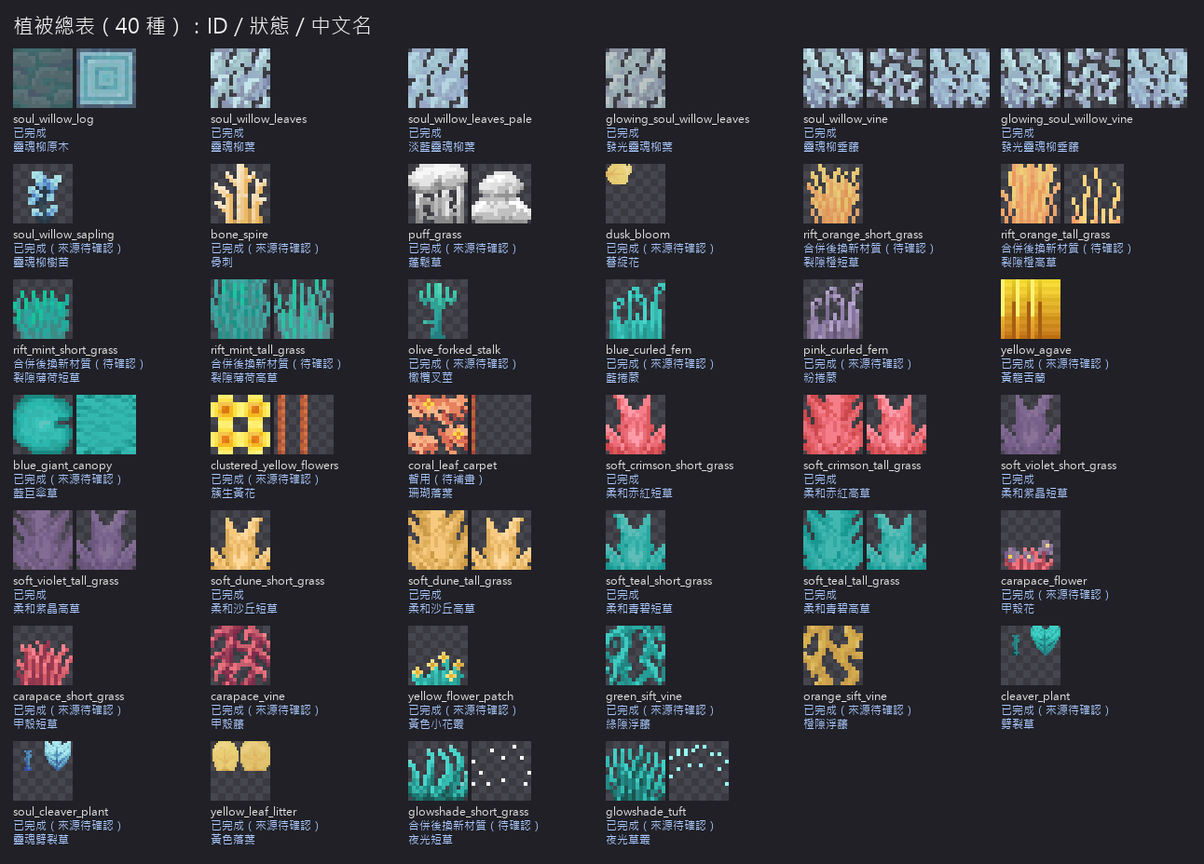
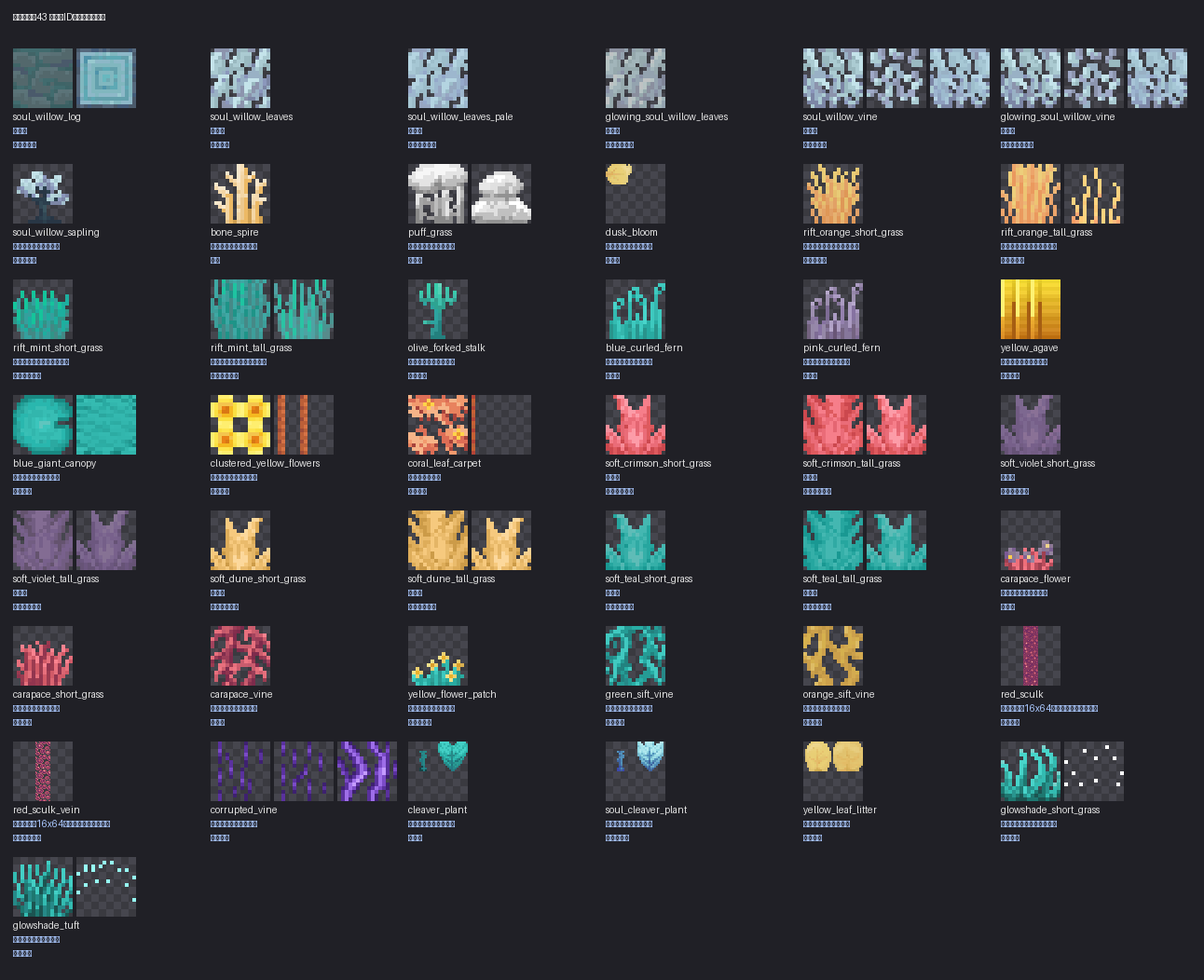
feat(textures): redrawn cave stones, hanging vine textures, AI texture records
- subagent redraw (minecraft-texture-crafter): gray_strata, varied_dark_slate,
  polished_void_stone, violet_strata h/i matched to e; originals backed up in
  .texture_backups/20261113-171000_cave_layer_redraw/
- hanging vine body / tip textures from the user's three wall vines
- AI_CATALOG lists the new and the pointed-stone textures; art_guard records them

Claude-Session: https://claude.ai/code/session_01Bwq5yEBLjACGLHohmmurKz

diff --git a/tools/build_art_requests.py b/tools/build_art_requests.py
@@ -37,6 +37,7 @@ IMPORTED_NEW = {"carapace_flower", "carapace_short_grass", "carapace_vine", "whi
 # 全專案 AI／腳本產生的貼圖：(textures/ 底下的 glob, 用途, 產生腳本, 類別)
 # 類別：AI = 腳本從零畫的；轉出 = 由使用者的圖或原版貼圖重新上色／裁切；待確認 = 腳本畫過，但可能已被換成使用者的圖
 AI_CATALOG = [
+    ("block/pointed/pointed_*.png", "尖石（四種洞穴的滴水石，v2.1.0）", "subagent（minecraft-texture-crafter）", "AI"),
     ("block/vegetation/humus_fern.png", "腐殖蕨 葉片", "tools/models/gen_blade_models.py", "AI"),
     ("block/vegetation/humus_bush.png", "腐殖灌木 葉片", "tools/models/gen_blade_models.py", "AI"),
     ("block/vegetation/bone_spire.png", "骨刺", "tools/worldgen/make_decor_textures.py", "AI"),
@@ -63,6 +64,11 @@ AI_CATALOG = [
     ("entity/hunter.png", "Hunter（可能已換成使用者的合併貼圖）", "tools/entity/build_sift_creatures.py", "待確認"),
     ("entity/trapper.png", "Trapper（可能已換成使用者的合併貼圖）", "tools/entity/build_sift_creatures.py", "待確認"),
     ("entity/sculk_cube.png", "幽匿方塊", "tools/entity/build_sift_creatures.py", "待確認"),
+    ("block/gray_strata/gray_strata_*.png", "灰地層 4 色調（洞穴層重畫）", "Claude Code 一次性腳本（未放進 repo）", "AI"),
+    ("block/varied_dark_slate/dark_slate_[dghj].png", "雜色暗板岩（洞穴層重畫；dark_slate_i 是使用者的）", "Claude Code 一次性腳本（未放進 repo）", "AI"),
+    ("block/violet_strata/violet_strata_[hi].png", "紫地層變體（依 violet_strata_e 統一；e 是共用的未改）", "Claude Code 一次性腳本（未放進 repo）", "AI"),
+    ("block/void_stone/polished_void_stone.png", "磨製虛黑岩（洞穴層重畫）", "Claude Code 一次性腳本（未放進 repo）", "AI"),
+    ("block/vegetation/hanging_vines/*.png", "垂掛藤蔓 3 種（本體＋尖端，依使用者的牆藤重畫）", "Claude Code 一次性腳本（未放進 repo）", "轉出"),
 ]
 RIFT_FLORA_TEX = {"blue_curled_fern", "pink_curled_fern", "white_curled_fern", "olive_forked_stalk", "rift_yellow_short_grass",
                   "canopy_leaf_blue", "canopy_leaf_green", "canopy_leaf_white", "canopy_stem_blue", "canopy_stem_green",

diff --git a/art_requests/vegetation_todo.md b/art_requests/vegetation_todo.md
@@ -5,7 +5,7 @@
 **怎麼替換**：畫好後用同樣的檔名覆蓋 `src/main/resources/assets/pysift/textures/` 底下的檔案即可，路徑以下都省略這段。
 產生這些圖的腳本已加上臨時圖保護（`tools/art_guard.py`），只要檔案和腳本上次畫的不同，重跑就不會蓋掉你的圖。
 
-## A. 植被總表（40 種）
+## A. 植被總表（43 種）
 
 總覽圖：`art_requests/vegetation_todo_overview.png`（每格最多 3 張貼圖，第二行是狀態）。
 
@@ -24,7 +24,7 @@
 | 7 | `soul_willow_sapling` | 靈魂柳樹苗 | `block/vegetation/soul_willow_sapling/soul_willow_sapling` | 十字（自訂元素） | `block/vegetation/soul_willow_sapling/soul_willow_sapling` 16x16 | `block/vegetation/soul_willow_sapling/soul_willow_sapling` 16x16 | 待確認 | 已完成（來源待確認） |  |
 | 8 | `bone_spire` | 骨刺 | `block/vegetation/bone_spire/bone_spire`<br>`block/vegetation/bone_spire/bone_spire_s80`<br>`block/vegetation/bone_spire/bone_spire_s120` | 十字（自訂元素） | `block/vegetation/bone_spire/bone_spire` 16x16 | `block/vegetation/bone_spire/bone_spire` 16x16 | 待確認 | 已完成（來源待確認） |  |
 | 9 | `puff_grass` | 蓬鬆草 | `block/vegetation/puff_grass/puff_grass_bottom`<br>`block/vegetation/puff_grass/puff_grass_top` | 兩格高（上／下半）・十字（自訂元素） | `block/vegetation/puff_grass/puff_grass_bottom` 16x16<br>`block/vegetation/puff_grass/puff_grass_top` 16x16 | `block/vegetation/puff_grass/puff_grass_top` 16x16 | 待確認 | 已完成（來源待確認） |  |
-| 10 | `dusk_bloom` | 暮綻花 | `block/vegetation/dusk_bloom/dusk_bloom` | 3D 模型（Blockbench／腳本） | `block/vegetation/dusk_bloom/dusk_bloom` 32x32 | `item/dusk_bloom` 21x21 | 使用者的 Blockbench 模型（待確認） | 已完成（來源待確認） |  |
+| 10 | `dusk_bloom` | 暮綻花 | `block/vegetation/dusk_bloom/dusk_bloom` | 3D 模型（Blockbench／腳本） | `block/vegetation/dusk_bloom/dusk_bloom` 32x32 | `item/dusk_bloom` 16x16 | 使用者的 Blockbench 模型（待確認） | 已完成（來源待確認） |  |
 | 11 | `rift_orange_short_grass` | 裂隙橙短草 | `block/vegetation/rift_orange_short_grass/rift_orange_short_grass` | 原版十字 | `block/vegetation/rift_orange_short_grass/sift_orange_short_grass` 16x16 | `block/vegetation/rift_orange_short_grass/sift_orange_short_grass` 16x16 | 待確認 | 合併後換新材質（待確認） | 原 orange_rift_grass，併入 sift_orange_short_grass 的新材質 |
 | 12 | `rift_orange_tall_grass` | 裂隙橙高草 | `block/vegetation/rift_orange_tall_grass/rift_orange_tall_grass_bottom`<br>`block/vegetation/rift_orange_tall_grass/rift_orange_tall_grass` | 兩格高（上／下半）・原版十字 | `block/vegetation/rift_orange_tall_grass/sift_orange_tall_grass_down` 16x16<br>`block/vegetation/rift_orange_tall_grass/sift_orange_tall_grass_top` 16x16 | `block/vegetation/rift_orange_tall_grass/sift_orange_tall_grass_top` 16x16 | 待確認 | 合併後換新材質（待確認） | 原 orange_tall_rift_grass，併入 sift_orange_tall_grass 的新材質 |
 | 13 | `rift_mint_short_grass` | 裂隙薄荷短草 | `block/vegetation/rift_mint_short_grass/rift_mint_short_grass` | 原版十字 | `block/vegetation/rift_mint_short_grass/sift_short_grass` 16x16 | `block/vegetation/rift_mint_short_grass/sift_short_grass` 16x16 | 待確認 | 合併後換新材質（待確認） | 原 mint_rift_grass，併入 sift_short_grass 的新材質 |
@@ -50,114 +50,172 @@
 | 33 | `yellow_flower_patch` | 黃色小花叢 | `block/vegetation/yellow_flower_patch/yellow_flower_patch` | 原版十字 | `block/vegetation/yellow_flower_patch/yellow_flower_patch` 16x16 | `block/vegetation/yellow_flower_patch/yellow_flower_patch` 16x16 | 待確認 | 已完成（來源待確認） | 新匯入 |
 | 34 | `green_sift_vine` | 綠隙浮藤 | `block/vegetation/green_sift_vine/green_sift_vine` | 藤（貼牆面） | `block/vegetation/green_sift_vine/green_sift_vine` 16x16 | `item/green_sift_vine` 16x16 | 待確認<br>匯入素材 sift_vegetation_assets（待確認） | 已完成（來源待確認） | 新匯入 |
 | 35 | `orange_sift_vine` | 橙隙浮藤 | `block/vegetation/orange_sift_vine/orange_sift_vine` | 藤（貼牆面） | `block/vegetation/orange_sift_vine/orange_sift_vine` 16x16 | `item/orange_sift_vine` 16x16 | 待確認<br>匯入素材 sift_vegetation_assets（待確認） | 已完成（來源待確認） | 新匯入 |
-| 36 | `cleaver_plant` | 劈裂草 | `block/vegetation/cleaver_plant/cleaver_plant` | 3D 模型（Blockbench／腳本） | `block/vegetation/cleaver_plant/cleaver_plant` 32x32 | `item/cleaver_plant` 16x16 | 待確認<br>匯入素材 sift_vegetation_assets（待確認） | 已完成（來源待確認） | 新匯入 |
-| 37 | `soul_cleaver_plant` | 靈魂劈裂草 | `block/vegetation/soul_cleaver_plant/soul_cleaver_plant` | 3D 模型（Blockbench／腳本） | `block/vegetation/soul_cleaver_plant/soul_cleaver_plant` 32x32 | `item/soul_cleaver_plant` 16x16 | 待確認<br>匯入素材 sift_vegetation_assets（待確認） | 已完成（來源待確認） | 新匯入 |
-| 38 | `yellow_leaf_litter` | 黃色落葉 | `block/vegetation/yellow_leaf_litter/yellow_leaf_litter` | 3D 模型（Blockbench／腳本） | `block/vegetation/yellow_leaf_litter/yellow_leaf_litter` 32x32 | `item/yellow_leaf_litter` 32x32 | 待確認<br>匯入素材 sift_vegetation_assets（待確認） | 已完成（來源待確認） | 新匯入 |
-| 39 | `glowshade_short_grass` | 夜光短草 | `block/vegetation/glowshade_short_grass/glowshade_short_grass` | 十字＋發光層 | `block/vegetation/glowshade_short_grass/sculk_grass` 16x16<br>`block/vegetation/glowshade_short_grass/glowshade_short_grass_glow` 16x16 | `block/vegetation/glowshade_short_grass/sculk_grass` 16x16 | 待確認 | 合併後換新材質（待確認） | 原 glowshade_grass，草葉改用 sculk_grass（幽匿草）貼圖，發光層重新對齊 |
-| 40 | `glowshade_tuft` | 夜光草叢 | `block/vegetation/glowshade_tuft/glowshade_tuft` | 十字＋發光層 | `block/vegetation/glowshade_tuft/glowshade_tuft` 16x16<br>`block/vegetation/glowshade_tuft/glowshade_tuft_glow` 16x16 | `block/vegetation/glowshade_tuft/glowshade_tuft` 16x16 | 待確認 | 已完成（來源待確認） |  |
+| 36 | `red_sculk` | 赤紅幽匿 | `block/red_sculk/red_sculk` | 方塊（cube_all） | `block/red_sculk/red_sculk` 16x64 | （用方塊模型） | 待確認 | 尺寸異常（16x64，十字模型會被拉伸） |  |
+| 37 | `red_sculk_vein` | 赤紅幽匿脈絡 | `block/red_sculk_vein/red_sculk_vein` | 3D 模型（Blockbench／腳本） | `block/red_sculk_vein/red_sculk_vein` 16x64 | `block/red_sculk_vein/red_sculk_vein` 16x64 | 待確認 | 尺寸異常（16x64，十字模型會被拉伸） |  |
+| 38 | `corrupted_vine` | 腐化藤蔓 | `block/corrupted_vine/corrupted_vine_corruption0_a`<br>`block/corrupted_vine/corrupted_vine_corruption0_b`<br>`block/corrupted_vine/corrupted_vine_corruption1`<br>`block/corrupted_vine/corrupted_vine_corruption2_a`<br>`block/corrupted_vine/corrupted_vine_corruption2_b`<br>`block/corrupted_vine/corrupted_vine_corruption2_c`<br>`block/corrupted_vine/corrupted_vine_corruption2_d`<br>`block/corrupted_vine/corrupted_vine_corruption2_e`<br>`block/corrupted_vine/corrupted_vine_corruption3_a`<br>`block/corrupted_vine/corrupted_vine_corruption3_b`<br>`block/corrupted_vine/corrupted_vine_corruption3_c` | 藤（貼牆面） | `block/corrupted_vine/corrupted_vine_corruption0_a` 16x16<br>`block/corrupted_vine/corrupted_vine_corruption0_b` 16x16<br>`block/corrupted_vine/corrupted_vine_corruption1` 16x16<br>`block/corrupted_vine/corrupted_vine_corruption2_a` 16x16<br>`block/corrupted_vine/corrupted_vine_corruption2_b` 16x16<br>`block/corrupted_vine/corrupted_vine_corruption2_c` 16x16<br>`block/corrupted_vine/corrupted_vine_corruption2_d` 16x16<br>`block/corrupted_vine/corrupted_vine_corruption2_e` 16x16<br>`block/corrupted_vine/corrupted_vine_corruption3_a` 16x16<br>`block/corrupted_vine/corrupted_vine_corruption3_b` 16x16<br>`block/corrupted_vine/corrupted_vine_corruption3_c` 16x16 | `block/corrupted_vine/corrupted_vine_corruption2_a` 16x16 | 待確認 | 已完成（來源待確認） |  |
+| 39 | `cleaver_plant` | 劈裂草 | `block/vegetation/cleaver_plant/cleaver_plant` | 3D 模型（Blockbench／腳本） | `block/vegetation/cleaver_plant/cleaver_plant` 32x32 | `item/cleaver_plant` 16x16 | 待確認<br>匯入素材 sift_vegetation_assets（待確認） | 已完成（來源待確認） | 新匯入 |
+| 40 | `soul_cleaver_plant` | 靈魂劈裂草 | `block/vegetation/soul_cleaver_plant/soul_cleaver_plant` | 3D 模型（Blockbench／腳本） | `block/vegetation/soul_cleaver_plant/soul_cleaver_plant` 32x32 | `item/soul_cleaver_plant` 16x16 | 待確認<br>匯入素材 sift_vegetation_assets（待確認） | 已完成（來源待確認） | 新匯入 |
+| 41 | `yellow_leaf_litter` | 黃色落葉 | `block/vegetation/yellow_leaf_litter/yellow_leaf_litter` | 3D 模型（Blockbench／腳本） | `block/vegetation/yellow_leaf_litter/yellow_leaf_litter` 32x32 | `item/yellow_leaf_litter` 16x16 | 待確認<br>匯入素材 sift_vegetation_assets（待確認） | 已完成（來源待確認） | 新匯入 |
+| 42 | `glowshade_short_grass` | 夜光短草 | `block/vegetation/glowshade_short_grass/glowshade_short_grass` | 十字＋發光層 | `block/vegetation/glowshade_short_grass/sculk_grass` 16x16<br>`block/vegetation/glowshade_short_grass/glowshade_short_grass_glow` 16x16 | `block/vegetation/glowshade_short_grass/sculk_grass` 16x16 | 待確認 | 合併後換新材質（待確認） | 原 glowshade_grass，草葉改用 sculk_grass（幽匿草）貼圖，發光層重新對齊 |
+| 43 | `glowshade_tuft` | 夜光草叢 | `block/vegetation/glowshade_tuft/glowshade_tuft` | 十字＋發光層 | `block/vegetation/glowshade_tuft/glowshade_tuft` 16x16<br>`block/vegetation/glowshade_tuft/glowshade_tuft_glow` 16x16 | `block/vegetation/glowshade_tuft/glowshade_tuft` 16x16 | 待確認 | 已完成（來源待確認） |  |
 
-## B. AI 產生與待確認的貼圖（99 張，全專案）
+## B. AI 產生與待確認的貼圖（154 張，全專案）
 
 總覽圖：`art_requests/ai_textures_overview.png`。類別：**AI** = 腳本從零畫的；**轉出** = 由你的圖或原版貼圖重新上色／裁切，可以沿用也可以重畫；**待確認** = 腳本畫過但可能已換成你的圖，或是匯入素材、來源不明的圖：是你畫的就保留，不是就重畫。
 
 | # | 檔案 | 用途 | 尺寸 | 產生腳本／來源 | 類別 |
 | :-- | :-- | :-- | :-- | :-- | :-- |
-| 1 | `item/coral_leaf_carpet.png` | 珊瑚落葉 物品圖示 | 16x16 | `tools/models/gen_batch3.py` | AI |
-| 2 | `item/bloombud_spawn_egg.png` | 生怪蛋（臉取自生物貼圖） | 16x16 | `tools/items/make_spawn_eggs.py、tools/models/hunter_trapper_assets.py` | AI |
-| 3 | `item/blub_spawn_egg.png` | 生怪蛋（臉取自生物貼圖） | 16x16 | `tools/items/make_spawn_eggs.py、tools/models/hunter_trapper_assets.py` | AI |
-| 4 | `item/dartback_spawn_egg.png` | 生怪蛋（臉取自生物貼圖） | 16x16 | `tools/items/make_spawn_eggs.py、tools/models/hunter_trapper_assets.py` | AI |
-| 5 | `item/echo_golem_spawn_egg.png` | 生怪蛋（臉取自生物貼圖） | 16x16 | `tools/items/make_spawn_eggs.py、tools/models/hunter_trapper_assets.py` | AI |
-| 6 | `item/fusefly_spawn_egg.png` | 生怪蛋（臉取自生物貼圖） | 16x16 | `tools/items/make_spawn_eggs.py、tools/models/hunter_trapper_assets.py` | AI |
-| 7 | `item/harmonizer_spawn_egg.png` | 生怪蛋（臉取自生物貼圖） | 16x16 | `tools/items/make_spawn_eggs.py、tools/models/hunter_trapper_assets.py` | AI |
-| 8 | `item/hunter_spawn_egg.png` | 生怪蛋（臉取自生物貼圖） | 16x16 | `tools/items/make_spawn_eggs.py、tools/models/hunter_trapper_assets.py` | AI |
-| 9 | `item/hurler_spawn_egg.png` | 生怪蛋（臉取自生物貼圖） | 16x16 | `tools/items/make_spawn_eggs.py、tools/models/hunter_trapper_assets.py` | AI |
-| 10 | `item/lootkin_spawn_egg.png` | 生怪蛋（臉取自生物貼圖） | 16x16 | `tools/items/make_spawn_eggs.py、tools/models/hunter_trapper_assets.py` | AI |
-| 11 | `item/monarch_spawn_egg.png` | 生怪蛋（臉取自生物貼圖） | 16x16 | `tools/items/make_spawn_eggs.py、tools/models/hunter_trapper_assets.py` | AI |
-| 12 | `item/nester_spawn_egg.png` | 生怪蛋（臉取自生物貼圖） | 16x16 | `tools/items/make_spawn_eggs.py、tools/models/hunter_trapper_assets.py` | AI |
-| 13 | `item/nuzzle_spawn_egg.png` | 生怪蛋（臉取自生物貼圖） | 16x16 | `tools/items/make_spawn_eggs.py、tools/models/hunter_trapper_assets.py` | AI |
-| 14 | `item/pollinator_spawn_egg.png` | 生怪蛋（臉取自生物貼圖） | 16x16 | `tools/items/make_spawn_eggs.py、tools/models/hunter_trapper_assets.py` | AI |
-| 15 | `item/prickle_spawn_egg.png` | 生怪蛋（臉取自生物貼圖） | 16x16 | `tools/items/make_spawn_eggs.py、tools/models/hunter_trapper_assets.py` | AI |
-| 16 | `item/roamroot_spawn_egg.png` | 生怪蛋（臉取自生物貼圖） | 16x16 | `tools/items/make_spawn_eggs.py、tools/models/hunter_trapper_assets.py` | AI |
-| 17 | `item/scavenger_spawn_egg.png` | 生怪蛋（臉取自生物貼圖） | 16x16 | `tools/items/make_spawn_eggs.py、tools/models/hunter_trapper_assets.py` | AI |
-| 18 | `item/sculk_monstrosity_spawn_egg.png` | 生怪蛋（臉取自生物貼圖） | 16x16 | `tools/items/make_spawn_eggs.py、tools/models/hunter_trapper_assets.py` | AI |
-| 19 | `item/seedling_spawn_egg.png` | 生怪蛋（臉取自生物貼圖） | 16x16 | `tools/items/make_spawn_eggs.py、tools/models/hunter_trapper_assets.py` | AI |
-| 20 | `item/sentinel_spawn_egg.png` | 生怪蛋（臉取自生物貼圖） | 16x16 | `tools/items/make_spawn_eggs.py、tools/models/hunter_trapper_assets.py` | AI |
-| 21 | `item/singer_spawn_egg.png` | 生怪蛋（臉取自生物貼圖） | 16x16 | `tools/items/make_spawn_eggs.py、tools/models/hunter_trapper_assets.py` | AI |
-| 22 | `item/slabber_spawn_egg.png` | 生怪蛋（臉取自生物貼圖） | 16x16 | `tools/items/make_spawn_eggs.py、tools/models/hunter_trapper_assets.py` | AI |
-| 23 | `item/sprout_spawn_egg.png` | 生怪蛋（臉取自生物貼圖） | 16x16 | `tools/items/make_spawn_eggs.py、tools/models/hunter_trapper_assets.py` | AI |
-| 24 | `item/stalker_spawn_egg.png` | 生怪蛋（臉取自生物貼圖） | 16x16 | `tools/items/make_spawn_eggs.py、tools/models/hunter_trapper_assets.py` | AI |
-| 25 | `item/trapper_spawn_egg.png` | 生怪蛋（臉取自生物貼圖） | 16x16 | `tools/items/make_spawn_eggs.py、tools/models/hunter_trapper_assets.py` | AI |
-| 26 | `item/tuner_spawn_egg.png` | 生怪蛋（臉取自生物貼圖） | 16x16 | `tools/items/make_spawn_eggs.py、tools/models/hunter_trapper_assets.py` | AI |
-| 27 | `item/wobble_spawn_egg.png` | 生怪蛋（臉取自生物貼圖） | 16x16 | `tools/items/make_spawn_eggs.py、tools/models/hunter_trapper_assets.py` | AI |
-| 28 | `mob_effect/ensnared.png` | 定身效果圖示 | 18x18 | `tools/models/hunter_trapper_assets.py` | AI |
-| 29 | `mob_effect/soul_deprivation.png` | 靈魂剝奪效果圖示（只在缺檔時寫） | 18x18 | `tools/worldgen/build_vegetation.py` | 待確認 |
-| 30 | `item/soul_antidote.png` | 靈魂解藥 | 16x16 | `tools/items/make_soul_burn_textures.py` | AI |
-| 31 | `particle/soul_wisp.png` | 靈魂幽火粒子 | 12x12 | `tools/worldgen/make_soul_wisp_textures.py` | AI |
-| 32 | `particle/soul_trail.png` | 靈魂拖尾粒子 | 8x8 | `tools/worldgen/make_soul_wisp_textures.py` | AI |
-| 33 | `gui/sprites/hud/heart/soul_full.png` | 靈魂剝奪的愛心（原版愛心重新上色） | 9x9 | `tools/items/make_soul_hearts.py` | 轉出 |
-| 34 | `gui/sprites/hud/heart/soul_full_blinking.png` | 靈魂剝奪的愛心（原版愛心重新上色） | 9x9 | `tools/items/make_soul_hearts.py` | 轉出 |
-| 35 | `gui/sprites/hud/heart/soul_half.png` | 靈魂剝奪的愛心（原版愛心重新上色） | 9x9 | `tools/items/make_soul_hearts.py` | 轉出 |
-| 36 | `gui/sprites/hud/heart/soul_half_blinking.png` | 靈魂剝奪的愛心（原版愛心重新上色） | 9x9 | `tools/items/make_soul_hearts.py` | 轉出 |
-| 37 | `gui/sprites/hud/heart/soul_hardcore_full.png` | 靈魂剝奪的愛心（原版愛心重新上色） | 9x9 | `tools/items/make_soul_hearts.py` | 轉出 |
-| 38 | `gui/sprites/hud/heart/soul_hardcore_full_blinking.png` | 靈魂剝奪的愛心（原版愛心重新上色） | 9x9 | `tools/items/make_soul_hearts.py` | 轉出 |
-| 39 | `gui/sprites/hud/heart/soul_hardcore_half.png` | 靈魂剝奪的愛心（原版愛心重新上色） | 9x9 | `tools/items/make_soul_hearts.py` | 轉出 |
-| 40 | `gui/sprites/hud/heart/soul_hardcore_half_blinking.png` | 靈魂剝奪的愛心（原版愛心重新上色） | 9x9 | `tools/items/make_soul_hearts.py` | 轉出 |
-| 41 | `block/soul_willow/soul_willow_door_bottom.png` | 靈柳木建材組（原版橡木重新上色） | 16x16 | `tools/worldgen/build_soul_willow_wood.py` | 轉出 |
-| 42 | `block/soul_willow/soul_willow_door_top.png` | 靈柳木建材組（原版橡木重新上色） | 16x16 | `tools/worldgen/build_soul_willow_wood.py` | 轉出 |
-| 43 | `block/soul_willow/soul_willow_hanging_sign.png` | 靈柳木建材組（原版橡木重新上色） | 32x32 | `tools/worldgen/build_soul_willow_wood.py` | 轉出 |
-| 44 | `block/soul_willow/soul_willow_planks.png` | 靈柳木建材組（原版橡木重新上色） | 16x16 | `tools/worldgen/build_soul_willow_wood.py` | 轉出 |
-| 45 | `block/soul_willow/soul_willow_shelf.png` | 靈柳木建材組（原版橡木重新上色） | 32x32 | `tools/worldgen/build_soul_willow_wood.py` | 轉出 |
-| 46 | `block/soul_willow/soul_willow_sign.png` | 靈柳木建材組（原版橡木重新上色） | 32x32 | `tools/worldgen/build_soul_willow_wood.py` | 轉出 |
-| 47 | `block/soul_willow/soul_willow_trapdoor.png` | 靈柳木建材組（原版橡木重新上色） | 16x16 | `tools/worldgen/build_soul_willow_wood.py` | 轉出 |
-| 48 | `block/soul_willow/stripped_soul_willow_log.png` | 靈柳木建材組（原版橡木重新上色） | 16x16 | `tools/worldgen/build_soul_willow_wood.py` | 轉出 |
-| 49 | `block/soul_willow/stripped_soul_willow_log_top.png` | 靈柳木建材組（原版橡木重新上色） | 16x16 | `tools/worldgen/build_soul_willow_wood.py` | 轉出 |
-| 50 | `item/soul_willow_boat.png` | 靈柳木物品（原版橡木重新上色） | 16x16 | `tools/worldgen/build_soul_willow_wood.py` | 轉出 |
-| 51 | `item/soul_willow_chest_boat.png` | 靈柳木物品（原版橡木重新上色） | 16x16 | `tools/worldgen/build_soul_willow_wood.py` | 轉出 |
-| 52 | `item/soul_willow_door.png` | 靈柳木物品（原版橡木重新上色） | 16x16 | `tools/worldgen/build_soul_willow_wood.py` | 轉出 |
-| 53 | `item/soul_willow_hanging_sign.png` | 靈柳木物品（原版橡木重新上色） | 16x16 | `tools/worldgen/build_soul_willow_wood.py` | 轉出 |
-| 54 | `item/soul_willow_sign.png` | 靈柳木物品（原版橡木重新上色） | 16x16 | `tools/worldgen/build_soul_willow_wood.py` | 轉出 |
-| 55 | `entity/boat/soul_willow.png` | 靈柳木船 | 128x64 | `tools/worldgen/build_soul_willow_wood.py` | 轉出 |
-| 56 | `entity/chest_boat/soul_willow.png` | 靈柳木運輸船 | 128x128 | `tools/worldgen/build_soul_willow_wood.py` | 轉出 |
-| 57 | `block/soul_crystal_block.png` | 靈魂晶塊（取自 echo_golem 貼圖） | 16x16 | `tools/worldgen/build_soul_crystal.py` | 轉出 |
-| 58 | `entity/hunter.png` | Hunter（可能已換成使用者的合併貼圖） | 64x64 | `tools/entity/build_sift_creatures.py` | 待確認 |
-| 59 | `entity/trapper.png` | Trapper（可能已換成使用者的合併貼圖） | 64x64 | `tools/entity/build_sift_creatures.py` | 待確認 |
-| 60 | `entity/sculk_cube.png` | 幽匿方塊 | 64x64 | `tools/entity/build_sift_creatures.py` | 待確認 |
-| 61 | `block/vegetation/soul_willow_sapling/soul_willow_sapling.png` | 靈魂柳樹苗 貼圖 | 16x16 | 待確認 | 待確認 |
-| 62 | `block/vegetation/bone_spire/bone_spire.png` | 骨刺 貼圖 | 16x16 | 待確認 | 待確認 |
-| 63 | `block/vegetation/puff_grass/puff_grass_bottom.png` | 蓬鬆草 貼圖 | 16x16 | 待確認 | 待確認 |
-| 64 | `block/vegetation/puff_grass/puff_grass_top.png` | 蓬鬆草 貼圖 | 16x16 | 待確認 | 待確認 |
-| 65 | `block/vegetation/dusk_bloom/dusk_bloom.png` | 暮綻花 貼圖 | 32x32 | 使用者的 Blockbench 模型 | 待確認 |
-| 66 | `item/dusk_bloom.png` | 暮綻花 物品圖示 | 21x21 | 使用者的 Blockbench 模型 | 待確認 |
-| 67 | `block/vegetation/rift_orange_short_grass/sift_orange_short_grass.png` | 裂隙橙短草 貼圖 | 16x16 | 待確認 | 待確認 |
-| 68 | `block/vegetation/rift_orange_tall_grass/sift_orange_tall_grass_down.png` | 裂隙橙高草 貼圖 | 16x16 | 待確認 | 待確認 |
-| 69 | `block/vegetation/rift_orange_tall_grass/sift_orange_tall_grass_top.png` | 裂隙橙高草 貼圖 | 16x16 | 待確認 | 待確認 |
-| 70 | `block/vegetation/rift_mint_short_grass/sift_short_grass.png` | 裂隙薄荷短草 貼圖 | 16x16 | 待確認 | 待確認 |
-| 71 | `block/vegetation/rift_mint_tall_grass/rift_mint_tall_grass_down.png` | 裂隙薄荷高草 貼圖 | 16x16 | 待確認 | 待確認 |
-| 72 | `block/vegetation/rift_mint_tall_grass/rift_mint_tall_grass_top.png` | 裂隙薄荷高草 貼圖 | 16x16 | 待確認 | 待確認 |
-| 73 | `block/vegetation/olive_forked_stalk/olive_forked_stalk.png` | 橄欖叉莖 貼圖 | 16x16 | 匯入素材 rift_dimension_flora | 待確認 |
-| 74 | `block/vegetation/blue_curled_fern/blue_curled_fern.png` | 藍捲蕨 貼圖 | 16x16 | 匯入素材 rift_dimension_flora | 待確認 |
-| 75 | `block/vegetation/pink_curled_fern/pink_curled_fern.png` | 粉捲蕨 貼圖 | 16x16 | 匯入素材 rift_dimension_flora | 待確認 |
-| 76 | `block/vegetation/yellow_agave/yellow_agave_leaf.png` | 黃龍舌蘭 貼圖 | 16x16 | 匯入素材 rift_dimension_flora | 待確認 |
-| 77 | `block/vegetation/blue_giant_canopy/canopy_leaf_blue.png` | 藍巨傘草 貼圖 | 16x16 | 匯入素材 rift_dimension_flora | 待確認 |
-| 78 | `block/vegetation/blue_giant_canopy/canopy_stem_blue.png` | 藍巨傘草 貼圖 | 16x16 | 匯入素材 rift_dimension_flora | 待確認 |
-| 79 | `block/vegetation/clustered_yellow_flowers/yellow_flower_head.png` | 簇生黃花 貼圖 | 16x16 | 匯入素材 rift_dimension_flora | 待確認 |
-| 80 | `block/vegetation/clustered_yellow_flowers/yellow_flower_stem.png` | 簇生黃花 貼圖 | 16x16 | 匯入素材 rift_dimension_flora | 待確認 |
-| 81 | `block/vegetation/carapace_flower/carapace_flower.png` | 甲殼花 貼圖 | 16x16 | 待確認 | 待確認 |
-| 82 | `block/vegetation/carapace_short_grass/carapace_shortgrass.png` | 甲殼短草 貼圖 | 16x16 | 待確認 | 待確認 |
-| 83 | `block/vegetation/carapace_vine/carapace_vine.png` | 甲殼藤 貼圖 | 16x16 | 待確認 | 待確認 |
-| 84 | `item/carapace_vine.png` | 甲殼藤 物品圖示 | 16x16 | 匯入素材 sift_vegetation_assets | 待確認 |
-| 85 | `block/vegetation/yellow_flower_patch/yellow_flower_patch.png` | 黃色小花叢 貼圖 | 16x16 | 待確認 | 待確認 |
-| 86 | `block/vegetation/green_sift_vine/green_sift_vine.png` | 綠隙浮藤 貼圖 | 16x16 | 待確認 | 待確認 |
-| 87 | `item/green_sift_vine.png` | 綠隙浮藤 物品圖示 | 16x16 | 匯入素材 sift_vegetation_assets | 待確認 |
-| 88 | `block/vegetation/orange_sift_vine/orange_sift_vine.png` | 橙隙浮藤 貼圖 | 16x16 | 待確認 | 待確認 |
-| 89 | `item/orange_sift_vine.png` | 橙隙浮藤 物品圖示 | 16x16 | 匯入素材 sift_vegetation_assets | 待確認 |
-| 90 | `block/vegetation/cleaver_plant/cleaver_plant.png` | 劈裂草 貼圖 | 32x32 | 待確認 | 待確認 |
-| 91 | `item/cleaver_plant.png` | 劈裂草 物品圖示 | 16x16 | 匯入素材 sift_vegetation_assets | 待確認 |
-| 92 | `block/vegetation/soul_cleaver_plant/soul_cleaver_plant.png` | 靈魂劈裂草 貼圖 | 32x32 | 待確認 | 待確認 |
-| 93 | `item/soul_cleaver_plant.png` | 靈魂劈裂草 物品圖示 | 16x16 | 匯入素材 sift_vegetation_assets | 待確認 |
-| 94 | `block/vegetation/yellow_leaf_litter/yellow_leaf_litter.png` | 黃色落葉 貼圖 | 32x32 | 待確認 | 待確認 |
-| 95 | `item/yellow_leaf_litter.png` | 黃色落葉 物品圖示 | 32x32 | 匯入素材 sift_vegetation_assets | 待確認 |
-| 96 | `block/vegetation/glowshade_short_grass/sculk_grass.png` | 夜光短草 貼圖 | 16x16 | 待確認 | 待確認 |
-| 97 | `block/vegetation/glowshade_short_grass/glowshade_short_grass_glow.png` | 夜光短草 貼圖 | 16x16 | 待確認 | 待確認 |
-| 98 | `block/vegetation/glowshade_tuft/glowshade_tuft.png` | 夜光草叢 貼圖 | 16x16 | 待確認 | 待確認 |
-| 99 | `block/vegetation/glowshade_tuft/glowshade_tuft_glow.png` | 夜光草叢 貼圖 | 16x16 | 待確認 | 待確認 |
+| 1 | `block/pointed/pointed_crimson_vein_stone_base.png` | 尖石（四種洞穴的滴水石，v2.1.0） | 16x16 | subagent（minecraft-texture-crafter） | AI |
+| 2 | `block/pointed/pointed_crimson_vein_stone_frustum.png` | 尖石（四種洞穴的滴水石，v2.1.0） | 16x16 | subagent（minecraft-texture-crafter） | AI |
+| 3 | `block/pointed/pointed_crimson_vein_stone_middle.png` | 尖石（四種洞穴的滴水石，v2.1.0） | 16x16 | subagent（minecraft-texture-crafter） | AI |
+| 4 | `block/pointed/pointed_crimson_vein_stone_tip.png` | 尖石（四種洞穴的滴水石，v2.1.0） | 16x16 | subagent（minecraft-texture-crafter） | AI |
+| 5 | `block/pointed/pointed_crimson_vein_stone_tip_merge.png` | 尖石（四種洞穴的滴水石，v2.1.0） | 16x16 | subagent（minecraft-texture-crafter） | AI |
+| 6 | `block/pointed/pointed_dark_slate_base.png` | 尖石（四種洞穴的滴水石，v2.1.0） | 16x16 | subagent（minecraft-texture-crafter） | AI |
+| 7 | `block/pointed/pointed_dark_slate_frustum.png` | 尖石（四種洞穴的滴水石，v2.1.0） | 16x16 | subagent（minecraft-texture-crafter） | AI |
+| 8 | `block/pointed/pointed_dark_slate_middle.png` | 尖石（四種洞穴的滴水石，v2.1.0） | 16x16 | subagent（minecraft-texture-crafter） | AI |
+| 9 | `block/pointed/pointed_dark_slate_tip.png` | 尖石（四種洞穴的滴水石，v2.1.0） | 16x16 | subagent（minecraft-texture-crafter） | AI |
+| 10 | `block/pointed/pointed_dark_slate_tip_merge.png` | 尖石（四種洞穴的滴水石，v2.1.0） | 16x16 | subagent（minecraft-texture-crafter） | AI |
+| 11 | `block/pointed/pointed_violet_strata_base.png` | 尖石（四種洞穴的滴水石，v2.1.0） | 16x16 | subagent（minecraft-texture-crafter） | AI |
+| 12 | `block/pointed/pointed_violet_strata_frustum.png` | 尖石（四種洞穴的滴水石，v2.1.0） | 16x16 | subagent（minecraft-texture-crafter） | AI |
+| 13 | `block/pointed/pointed_violet_strata_middle.png` | 尖石（四種洞穴的滴水石，v2.1.0） | 16x16 | subagent（minecraft-texture-crafter） | AI |
+| 14 | `block/pointed/pointed_violet_strata_tip.png` | 尖石（四種洞穴的滴水石，v2.1.0） | 16x16 | subagent（minecraft-texture-crafter） | AI |
+| 15 | `block/pointed/pointed_violet_strata_tip_merge.png` | 尖石（四種洞穴的滴水石，v2.1.0） | 16x16 | subagent（minecraft-texture-crafter） | AI |
+| 16 | `block/pointed/pointed_void_stone_base.png` | 尖石（四種洞穴的滴水石，v2.1.0） | 16x16 | subagent（minecraft-texture-crafter） | AI |
+| 17 | `block/pointed/pointed_void_stone_frustum.png` | 尖石（四種洞穴的滴水石，v2.1.0） | 16x16 | subagent（minecraft-texture-crafter） | AI |
+| 18 | `block/pointed/pointed_void_stone_middle.png` | 尖石（四種洞穴的滴水石，v2.1.0） | 16x16 | subagent（minecraft-texture-crafter） | AI |
+| 19 | `block/pointed/pointed_void_stone_tip.png` | 尖石（四種洞穴的滴水石，v2.1.0） | 16x16 | subagent（minecraft-texture-crafter） | AI |
+| 20 | `block/pointed/pointed_void_stone_tip_merge.png` | 尖石（四種洞穴的滴水石，v2.1.0） | 16x16 | subagent（minecraft-texture-crafter） | AI |
+| 21 | `item/coral_leaf_carpet.png` | 珊瑚落葉 物品圖示 | 16x16 | `tools/models/gen_batch3.py` | AI |
+| 22 | `item/bloombud_spawn_egg.png` | 生怪蛋（臉取自生物貼圖） | 16x16 | `tools/items/make_spawn_eggs.py、tools/models/hunter_trapper_assets.py` | AI |
+| 23 | `item/blub_spawn_egg.png` | 生怪蛋（臉取自生物貼圖） | 16x16 | `tools/items/make_spawn_eggs.py、tools/models/hunter_trapper_assets.py` | AI |
+| 24 | `item/dartback_spawn_egg.png` | 生怪蛋（臉取自生物貼圖） | 16x16 | `tools/items/make_spawn_eggs.py、tools/models/hunter_trapper_assets.py` | AI |
+| 25 | `item/echo_golem_spawn_egg.png` | 生怪蛋（臉取自生物貼圖） | 16x16 | `tools/items/make_spawn_eggs.py、tools/models/hunter_trapper_assets.py` | AI |
+| 26 | `item/fusefly_spawn_egg.png` | 生怪蛋（臉取自生物貼圖） | 16x16 | `tools/items/make_spawn_eggs.py、tools/models/hunter_trapper_assets.py` | AI |
+| 27 | `item/harmonizer_spawn_egg.png` | 生怪蛋（臉取自生物貼圖） | 16x16 | `tools/items/make_spawn_eggs.py、tools/models/hunter_trapper_assets.py` | AI |
+| 28 | `item/hunter_spawn_egg.png` | 生怪蛋（臉取自生物貼圖） | 16x16 | `tools/items/make_spawn_eggs.py、tools/models/hunter_trapper_assets.py` | AI |
+| 29 | `item/hurler_spawn_egg.png` | 生怪蛋（臉取自生物貼圖） | 16x16 | `tools/items/make_spawn_eggs.py、tools/models/hunter_trapper_assets.py` | AI |
+| 30 | `item/lootkin_spawn_egg.png` | 生怪蛋（臉取自生物貼圖） | 16x16 | `tools/items/make_spawn_eggs.py、tools/models/hunter_trapper_assets.py` | AI |
+| 31 | `item/monarch_spawn_egg.png` | 生怪蛋（臉取自生物貼圖） | 16x16 | `tools/items/make_spawn_eggs.py、tools/models/hunter_trapper_assets.py` | AI |
+| 32 | `item/mourner_spawn_egg.png` | 生怪蛋（臉取自生物貼圖） | 16x16 | `tools/items/make_spawn_eggs.py、tools/models/hunter_trapper_assets.py` | AI |
+| 33 | `item/nester_spawn_egg.png` | 生怪蛋（臉取自生物貼圖） | 16x16 | `tools/items/make_spawn_eggs.py、tools/models/hunter_trapper_assets.py` | AI |
+| 34 | `item/nuzzle_spawn_egg.png` | 生怪蛋（臉取自生物貼圖） | 16x16 | `tools/items/make_spawn_eggs.py、tools/models/hunter_trapper_assets.py` | AI |
+| 35 | `item/pollinator_spawn_egg.png` | 生怪蛋（臉取自生物貼圖） | 16x16 | `tools/items/make_spawn_eggs.py、tools/models/hunter_trapper_assets.py` | AI |
+| 36 | `item/prickle_spawn_egg.png` | 生怪蛋（臉取自生物貼圖） | 16x16 | `tools/items/make_spawn_eggs.py、tools/models/hunter_trapper_assets.py` | AI |
+| 37 | `item/roamroot_spawn_egg.png` | 生怪蛋（臉取自生物貼圖） | 16x16 | `tools/items/make_spawn_eggs.py、tools/models/hunter_trapper_assets.py` | AI |
+| 38 | `item/scavenger_spawn_egg.png` | 生怪蛋（臉取自生物貼圖） | 16x16 | `tools/items/make_spawn_eggs.py、tools/models/hunter_trapper_assets.py` | AI |
+| 39 | `item/sculk_monstrosity_spawn_egg.png` | 生怪蛋（臉取自生物貼圖） | 16x16 | `tools/items/make_spawn_eggs.py、tools/models/hunter_trapper_assets.py` | AI |
+| 40 | `item/seedling_spawn_egg.png` | 生怪蛋（臉取自生物貼圖） | 16x16 | `tools/items/make_spawn_eggs.py、tools/models/hunter_trapper_assets.py` | AI |
+| 41 | `item/sentinel_spawn_egg.png` | 生怪蛋（臉取自生物貼圖） | 16x16 | `tools/items/make_spawn_eggs.py、tools/models/hunter_trapper_assets.py` | AI |
+| 42 | `item/sift_warden_spawn_egg.png` | 生怪蛋（臉取自生物貼圖） | 16x16 | `tools/items/make_spawn_eggs.py、tools/models/hunter_trapper_assets.py` | AI |
+| 43 | `item/singer_spawn_egg.png` | 生怪蛋（臉取自生物貼圖） | 16x16 | `tools/items/make_spawn_eggs.py、tools/models/hunter_trapper_assets.py` | AI |
+| 44 | `item/slabber_spawn_egg.png` | 生怪蛋（臉取自生物貼圖） | 16x16 | `tools/items/make_spawn_eggs.py、tools/models/hunter_trapper_assets.py` | AI |
+| 45 | `item/sprout_spawn_egg.png` | 生怪蛋（臉取自生物貼圖） | 16x16 | `tools/items/make_spawn_eggs.py、tools/models/hunter_trapper_assets.py` | AI |
+| 46 | `item/stalker_spawn_egg.png` | 生怪蛋（臉取自生物貼圖） | 16x16 | `tools/items/make_spawn_eggs.py、tools/models/hunter_trapper_assets.py` | AI |
+| 47 | `item/trapper_spawn_egg.png` | 生怪蛋（臉取自生物貼圖） | 16x16 | `tools/items/make_spawn_eggs.py、tools/models/hunter_trapper_assets.py` | AI |
+| 48 | `item/tuner_spawn_egg.png` | 生怪蛋（臉取自生物貼圖） | 16x16 | `tools/items/make_spawn_eggs.py、tools/models/hunter_trapper_assets.py` | AI |
+| 49 | `item/wobble_spawn_egg.png` | 生怪蛋（臉取自生物貼圖） | 16x16 | `tools/items/make_spawn_eggs.py、tools/models/hunter_trapper_assets.py` | AI |
+| 50 | `mob_effect/ensnared.png` | 定身效果圖示 | 18x18 | `tools/models/hunter_trapper_assets.py` | AI |
+| 51 | `mob_effect/soul_deprivation.png` | 靈魂剝奪效果圖示（只在缺檔時寫） | 18x18 | `tools/worldgen/build_vegetation.py` | 待確認 |
+| 52 | `item/soul_antidote.png` | 靈魂解藥 | 16x16 | `tools/items/make_soul_burn_textures.py` | AI |
+| 53 | `particle/soul_wisp.png` | 靈魂幽火粒子 | 16x16 | `tools/worldgen/make_soul_wisp_textures.py` | AI |
+| 54 | `particle/soul_trail.png` | 靈魂拖尾粒子 | 8x8 | `tools/worldgen/make_soul_wisp_textures.py` | AI |
+| 55 | `gui/sprites/hud/heart/soul_full.png` | 靈魂剝奪的愛心（原版愛心重新上色） | 9x9 | `tools/items/make_soul_hearts.py` | 轉出 |
+| 56 | `gui/sprites/hud/heart/soul_full_blinking.png` | 靈魂剝奪的愛心（原版愛心重新上色） | 9x9 | `tools/items/make_soul_hearts.py` | 轉出 |
+| 57 | `gui/sprites/hud/heart/soul_half.png` | 靈魂剝奪的愛心（原版愛心重新上色） | 9x9 | `tools/items/make_soul_hearts.py` | 轉出 |
+| 58 | `gui/sprites/hud/heart/soul_half_blinking.png` | 靈魂剝奪的愛心（原版愛心重新上色） | 9x9 | `tools/items/make_soul_hearts.py` | 轉出 |
+| 59 | `gui/sprites/hud/heart/soul_hardcore_full.png` | 靈魂剝奪的愛心（原版愛心重新上色） | 9x9 | `tools/items/make_soul_hearts.py` | 轉出 |
+| 60 | `gui/sprites/hud/heart/soul_hardcore_full_blinking.png` | 靈魂剝奪的愛心（原版愛心重新上色） | 9x9 | `tools/items/make_soul_hearts.py` | 轉出 |
+| 61 | `gui/sprites/hud/heart/soul_hardcore_half.png` | 靈魂剝奪的愛心（原版愛心重新上色） | 9x9 | `tools/items/make_soul_hearts.py` | 轉出 |
+| 62 | `gui/sprites/hud/heart/soul_hardcore_half_blinking.png` | 靈魂剝奪的愛心（原版愛心重新上色） | 9x9 | `tools/items/make_soul_hearts.py` | 轉出 |
+| 63 | `block/soul_willow/soul_willow_door_bottom.png` | 靈柳木建材組（原版橡木重新上色） | 16x16 | `tools/worldgen/build_soul_willow_wood.py` | 轉出 |
+| 64 | `block/soul_willow/soul_willow_door_top.png` | 靈柳木建材組（原版橡木重新上色） | 16x16 | `tools/worldgen/build_soul_willow_wood.py` | 轉出 |
+| 65 | `block/soul_willow/soul_willow_hanging_sign.png` | 靈柳木建材組（原版橡木重新上色） | 32x32 | `tools/worldgen/build_soul_willow_wood.py` | 轉出 |
+| 66 | `block/soul_willow/soul_willow_planks.png` | 靈柳木建材組（原版橡木重新上色） | 16x16 | `tools/worldgen/build_soul_willow_wood.py` | 轉出 |
+| 67 | `block/soul_willow/soul_willow_shelf.png` | 靈柳木建材組（原版橡木重新上色） | 32x32 | `tools/worldgen/build_soul_willow_wood.py` | 轉出 |
+| 68 | `block/soul_willow/soul_willow_sign.png` | 靈柳木建材組（原版橡木重新上色） | 32x32 | `tools/worldgen/build_soul_willow_wood.py` | 轉出 |
+| 69 | `block/soul_willow/soul_willow_trapdoor.png` | 靈柳木建材組（原版橡木重新上色） | 16x16 | `tools/worldgen/build_soul_willow_wood.py` | 轉出 |
+| 70 | `block/soul_willow/stripped_soul_willow_log.png` | 靈柳木建材組（原版橡木重新上色） | 16x16 | `tools/worldgen/build_soul_willow_wood.py` | 轉出 |
+| 71 | `block/soul_willow/stripped_soul_willow_log_top.png` | 靈柳木建材組（原版橡木重新上色） | 16x16 | `tools/worldgen/build_soul_willow_wood.py` | 轉出 |
+| 72 | `item/soul_willow_boat.png` | 靈柳木物品（原版橡木重新上色） | 16x16 | `tools/worldgen/build_soul_willow_wood.py` | 轉出 |
+| 73 | `item/soul_willow_chest_boat.png` | 靈柳木物品（原版橡木重新上色） | 16x16 | `tools/worldgen/build_soul_willow_wood.py` | 轉出 |
+| 74 | `item/soul_willow_door.png` | 靈柳木物品（原版橡木重新上色） | 16x16 | `tools/worldgen/build_soul_willow_wood.py` | 轉出 |
+| 75 | `item/soul_willow_hanging_sign.png` | 靈柳木物品（原版橡木重新上色） | 16x16 | `tools/worldgen/build_soul_willow_wood.py` | 轉出 |
+| 76 | `item/soul_willow_sign.png` | 靈柳木物品（原版橡木重新上色） | 16x16 | `tools/worldgen/build_soul_willow_wood.py` | 轉出 |
+| 77 | `entity/boat/soul_willow.png` | 靈柳木船 | 128x64 | `tools/worldgen/build_soul_willow_wood.py` | 轉出 |
+| 78 | `entity/chest_boat/soul_willow.png` | 靈柳木運輸船 | 128x128 | `tools/worldgen/build_soul_willow_wood.py` | 轉出 |
+| 79 | `entity/hunter.png` | Hunter（可能已換成使用者的合併貼圖） | 64x64 | `tools/entity/build_sift_creatures.py` | 待確認 |
+| 80 | `entity/trapper.png` | Trapper（可能已換成使用者的合併貼圖） | 64x64 | `tools/entity/build_sift_creatures.py` | 待確認 |
+| 81 | `entity/sculk_cube.png` | 幽匿方塊 | 64x64 | `tools/entity/build_sift_creatures.py` | 待確認 |
+| 82 | `block/gray_strata/gray_strata_b.png` | 灰地層 4 色調（洞穴層重畫） | 16x16 | Claude Code 一次性腳本（未放進 repo） | AI |
+| 83 | `block/gray_strata/gray_strata_c.png` | 灰地層 4 色調（洞穴層重畫） | 16x16 | Claude Code 一次性腳本（未放進 repo） | AI |
+| 84 | `block/gray_strata/gray_strata_d.png` | 灰地層 4 色調（洞穴層重畫） | 16x16 | Claude Code 一次性腳本（未放進 repo） | AI |
+| 85 | `block/gray_strata/gray_strata_e.png` | 灰地層 4 色調（洞穴層重畫） | 16x16 | Claude Code 一次性腳本（未放進 repo） | AI |
+| 86 | `block/gray_strata/gray_strata_f.png` | 灰地層 4 色調（洞穴層重畫） | 16x16 | Claude Code 一次性腳本（未放進 repo） | AI |
+| 87 | `block/gray_strata/gray_strata_g.png` | 灰地層 4 色調（洞穴層重畫） | 16x16 | Claude Code 一次性腳本（未放進 repo） | AI |
+| 88 | `block/gray_strata/gray_strata_j.png` | 灰地層 4 色調（洞穴層重畫） | 16x16 | Claude Code 一次性腳本（未放進 repo） | AI |
+| 89 | `block/gray_strata/gray_strata_k.png` | 灰地層 4 色調（洞穴層重畫） | 16x16 | Claude Code 一次性腳本（未放進 repo） | AI |
+| 90 | `block/varied_dark_slate/dark_slate_d.png` | 雜色暗板岩（洞穴層重畫；dark_slate_i 是使用者的） | 16x16 | Claude Code 一次性腳本（未放進 repo） | AI |
+| 91 | `block/varied_dark_slate/dark_slate_g.png` | 雜色暗板岩（洞穴層重畫；dark_slate_i 是使用者的） | 16x16 | Claude Code 一次性腳本（未放進 repo） | AI |
+| 92 | `block/varied_dark_slate/dark_slate_h.png` | 雜色暗板岩（洞穴層重畫；dark_slate_i 是使用者的） | 16x16 | Claude Code 一次性腳本（未放進 repo） | AI |
+| 93 | `block/varied_dark_slate/dark_slate_j.png` | 雜色暗板岩（洞穴層重畫；dark_slate_i 是使用者的） | 16x16 | Claude Code 一次性腳本（未放進 repo） | AI |
+| 94 | `block/violet_strata/violet_strata_h.png` | 紫地層變體（依 violet_strata_e 統一；e 是共用的未改） | 16x16 | Claude Code 一次性腳本（未放進 repo） | AI |
+| 95 | `block/violet_strata/violet_strata_i.png` | 紫地層變體（依 violet_strata_e 統一；e 是共用的未改） | 16x16 | Claude Code 一次性腳本（未放進 repo） | AI |
+| 96 | `block/void_stone/polished_void_stone.png` | 磨製虛黑岩（洞穴層重畫） | 16x16 | Claude Code 一次性腳本（未放進 repo） | AI |
+| 97 | `block/vegetation/hanging_vines/hanging_carapace_vine.png` | 垂掛藤蔓 3 種（本體＋尖端，依使用者的牆藤重畫） | 16x16 | Claude Code 一次性腳本（未放進 repo） | 轉出 |
+| 98 | `block/vegetation/hanging_vines/hanging_carapace_vine_tip.png` | 垂掛藤蔓 3 種（本體＋尖端，依使用者的牆藤重畫） | 16x16 | Claude Code 一次性腳本（未放進 repo） | 轉出 |
+| 99 | `block/vegetation/hanging_vines/hanging_green_sift_vine.png` | 垂掛藤蔓 3 種（本體＋尖端，依使用者的牆藤重畫） | 16x16 | Claude Code 一次性腳本（未放進 repo） | 轉出 |
+| 100 | `block/vegetation/hanging_vines/hanging_green_sift_vine_tip.png` | 垂掛藤蔓 3 種（本體＋尖端，依使用者的牆藤重畫） | 16x16 | Claude Code 一次性腳本（未放進 repo） | 轉出 |
+| 101 | `block/vegetation/hanging_vines/hanging_orange_sift_vine.png` | 垂掛藤蔓 3 種（本體＋尖端，依使用者的牆藤重畫） | 16x16 | Claude Code 一次性腳本（未放進 repo） | 轉出 |
+| 102 | `block/vegetation/hanging_vines/hanging_orange_sift_vine_tip.png` | 垂掛藤蔓 3 種（本體＋尖端，依使用者的牆藤重畫） | 16x16 | Claude Code 一次性腳本（未放進 repo） | 轉出 |
+| 103 | `block/vegetation/soul_willow_sapling/soul_willow_sapling.png` | 靈魂柳樹苗 貼圖 | 16x16 | 待確認 | 待確認 |
+| 104 | `block/vegetation/bone_spire/bone_spire.png` | 骨刺 貼圖 | 16x16 | 待確認 | 待確認 |
+| 105 | `block/vegetation/puff_grass/puff_grass_bottom.png` | 蓬鬆草 貼圖 | 16x16 | 待確認 | 待確認 |
+| 106 | `block/vegetation/puff_grass/puff_grass_top.png` | 蓬鬆草 貼圖 | 16x16 | 待確認 | 待確認 |
+| 107 | `block/vegetation/dusk_bloom/dusk_bloom.png` | 暮綻花 貼圖 | 32x32 | 使用者的 Blockbench 模型 | 待確認 |
+| 108 | `item/dusk_bloom.png` | 暮綻花 物品圖示 | 16x16 | 使用者的 Blockbench 模型 | 待確認 |
+| 109 | `block/vegetation/rift_orange_short_grass/sift_orange_short_grass.png` | 裂隙橙短草 貼圖 | 16x16 | 待確認 | 待確認 |
+| 110 | `block/vegetation/rift_orange_tall_grass/sift_orange_tall_grass_down.png` | 裂隙橙高草 貼圖 | 16x16 | 待確認 | 待確認 |
+| 111 | `block/vegetation/rift_orange_tall_grass/sift_orange_tall_grass_top.png` | 裂隙橙高草 貼圖 | 16x16 | 待確認 | 待確認 |
+| 112 | `block/vegetation/rift_mint_short_grass/sift_short_grass.png` | 裂隙薄荷短草 貼圖 | 16x16 | 待確認 | 待確認 |
+| 113 | `block/vegetation/rift_mint_tall_grass/rift_mint_tall_grass_down.png` | 裂隙薄荷高草 貼圖 | 16x16 | 待確認 | 待確認 |
+| 114 | `block/vegetation/rift_mint_tall_grass/rift_mint_tall_grass_top.png` | 裂隙薄荷高草 貼圖 | 16x16 | 待確認 | 待確認 |
+| 115 | `block/vegetation/olive_forked_stalk/olive_forked_stalk.png` | 橄欖叉莖 貼圖 | 16x16 | 匯入素材 rift_dimension_flora | 待確認 |
+| 116 | `block/vegetation/blue_curled_fern/blue_curled_fern.png` | 藍捲蕨 貼圖 | 16x16 | 匯入素材 rift_dimension_flora | 待確認 |
+| 117 | `block/vegetation/pink_curled_fern/pink_curled_fern.png` | 粉捲蕨 貼圖 | 16x16 | 匯入素材 rift_dimension_flora | 待確認 |
+| 118 | `block/vegetation/yellow_agave/yellow_agave_leaf.png` | 黃龍舌蘭 貼圖 | 16x16 | 匯入素材 rift_dimension_flora | 待確認 |
+| 119 | `block/vegetation/blue_giant_canopy/canopy_leaf_blue.png` | 藍巨傘草 貼圖 | 16x16 | 匯入素材 rift_dimension_flora | 待確認 |
+| 120 | `block/vegetation/blue_giant_canopy/canopy_stem_blue.png` | 藍巨傘草 貼圖 | 16x16 | 匯入素材 rift_dimension_flora | 待確認 |
+| 121 | `block/vegetation/clustered_yellow_flowers/yellow_flower_head.png` | 簇生黃花 貼圖 | 16x16 | 匯入素材 rift_dimension_flora | 待確認 |
+| 122 | `block/vegetation/clustered_yellow_flowers/yellow_flower_stem.png` | 簇生黃花 貼圖 | 16x16 | 匯入素材 rift_dimension_flora | 待確認 |
+| 123 | `block/vegetation/carapace_flower/carapace_flower.png` | 甲殼花 貼圖 | 16x16 | 待確認 | 待確認 |
+| 124 | `block/vegetation/carapace_short_grass/carapace_shortgrass.png` | 甲殼短草 貼圖 | 16x16 | 待確認 | 待確認 |
+| 125 | `block/vegetation/carapace_vine/carapace_vine.png` | 甲殼藤 貼圖 | 16x16 | 待確認 | 待確認 |
+| 126 | `item/carapace_vine.png` | 甲殼藤 物品圖示 | 16x16 | 匯入素材 sift_vegetation_assets | 待確認 |
+| 127 | `block/vegetation/yellow_flower_patch/yellow_flower_patch.png` | 黃色小花叢 貼圖 | 16x16 | 待確認 | 待確認 |
+| 128 | `block/vegetation/green_sift_vine/green_sift_vine.png` | 綠隙浮藤 貼圖 | 16x16 | 待確認 | 待確認 |
+| 129 | `item/green_sift_vine.png` | 綠隙浮藤 物品圖示 | 16x16 | 匯入素材 sift_vegetation_assets | 待確認 |
+| 130 | `block/vegetation/orange_sift_vine/orange_sift_vine.png` | 橙隙浮藤 貼圖 | 16x16 | 待確認 | 待確認 |
+| 131 | `item/orange_sift_vine.png` | 橙隙浮藤 物品圖示 | 16x16 | 匯入素材 sift_vegetation_assets | 待確認 |
+| 132 | `block/red_sculk/red_sculk.png` | 赤紅幽匿 貼圖 | 16x64 | 待確認 | 待確認 |
+| 133 | `block/red_sculk_vein/red_sculk_vein.png` | 赤紅幽匿脈絡 貼圖 | 16x64 | 待確認 | 待確認 |
+| 134 | `block/corrupted_vine/corrupted_vine_corruption0_a.png` | 腐化藤蔓 貼圖 | 16x16 | 待確認 | 待確認 |
+| 135 | `block/corrupted_vine/corrupted_vine_corruption0_b.png` | 腐化藤蔓 貼圖 | 16x16 | 待確認 | 待確認 |
+| 136 | `block/corrupted_vine/corrupted_vine_corruption1.png` | 腐化藤蔓 貼圖 | 16x16 | 待確認 | 待確認 |
+| 137 | `block/corrupted_vine/corrupted_vine_corruption2_a.png` | 腐化藤蔓 貼圖 | 16x16 | 待確認 | 待確認 |
+| 138 | `block/corrupted_vine/corrupted_vine_corruption2_b.png` | 腐化藤蔓 貼圖 | 16x16 | 待確認 | 待確認 |
+| 139 | `block/corrupted_vine/corrupted_vine_corruption2_c.png` | 腐化藤蔓 貼圖 | 16x16 | 待確認 | 待確認 |
+| 140 | `block/corrupted_vine/corrupted_vine_corruption2_d.png` | 腐化藤蔓 貼圖 | 16x16 | 待確認 | 待確認 |
+| 141 | `block/corrupted_vine/corrupted_vine_corruption2_e.png` | 腐化藤蔓 貼圖 | 16x16 | 待確認 | 待確認 |
+| 142 | `block/corrupted_vine/corrupted_vine_corruption3_a.png` | 腐化藤蔓 貼圖 | 16x16 | 待確認 | 待確認 |
+| 143 | `block/corrupted_vine/corrupted_vine_corruption3_b.png` | 腐化藤蔓 貼圖 | 16x16 | 待確認 | 待確認 |
+| 144 | `block/corrupted_vine/corrupted_vine_corruption3_c.png` | 腐化藤蔓 貼圖 | 16x16 | 待確認 | 待確認 |
+| 145 | `block/vegetation/cleaver_plant/cleaver_plant.png` | 劈裂草 貼圖 | 32x32 | 待確認 | 待確認 |
+| 146 | `item/cleaver_plant.png` | 劈裂草 物品圖示 | 16x16 | 匯入素材 sift_vegetation_assets | 待確認 |
+| 147 | `block/vegetation/soul_cleaver_plant/soul_cleaver_plant.png` | 靈魂劈裂草 貼圖 | 32x32 | 待確認 | 待確認 |
+| 148 | `item/soul_cleaver_plant.png` | 靈魂劈裂草 物品圖示 | 16x16 | 匯入素材 sift_vegetation_assets | 待確認 |
+| 149 | `block/vegetation/yellow_leaf_litter/yellow_leaf_litter.png` | 黃色落葉 貼圖 | 32x32 | 待確認 | 待確認 |
+| 150 | `item/yellow_leaf_litter.png` | 黃色落葉 物品圖示 | 16x16 | 匯入素材 sift_vegetation_assets | 待確認 |
+| 151 | `block/vegetation/glowshade_short_grass/sculk_grass.png` | 夜光短草 貼圖 | 16x16 | 待確認 | 待確認 |
+| 152 | `block/vegetation/glowshade_short_grass/glowshade_short_grass_glow.png` | 夜光短草 貼圖 | 16x16 | 待確認 | 待確認 |
+| 153 | `block/vegetation/glowshade_tuft/glowshade_tuft.png` | 夜光草叢 貼圖 | 16x16 | 待確認 | 待確認 |
+| 154 | `block/vegetation/glowshade_tuft/glowshade_tuft_glow.png` | 夜光草叢 貼圖 | 16x16 | 待確認 | 待確認 |
